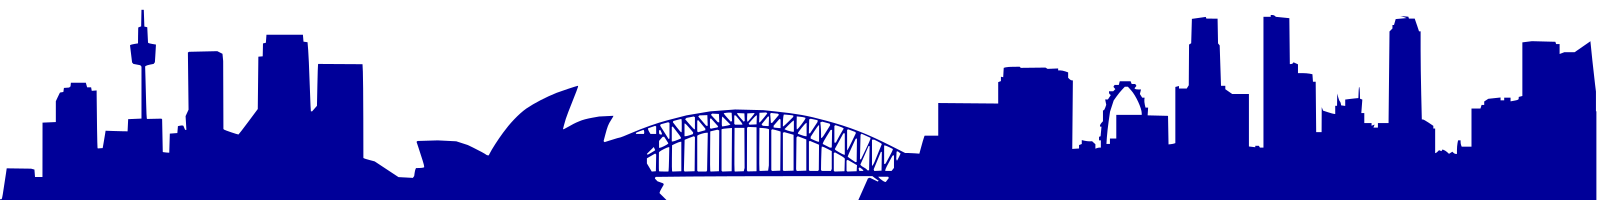
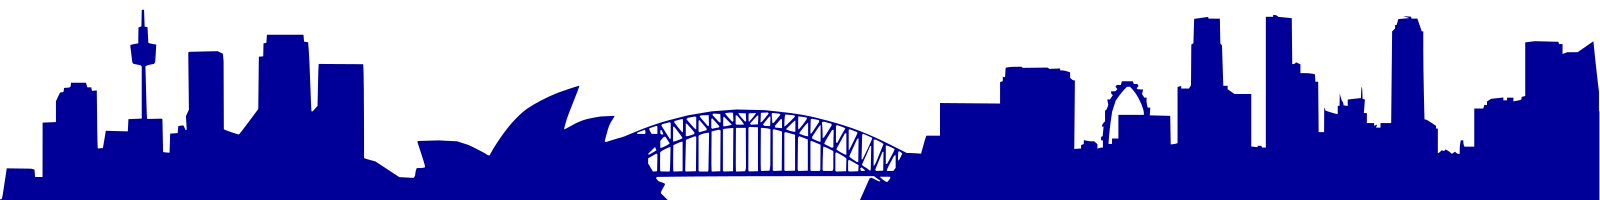
new old layout with skyline

Changed region(s): [[0.3989, 0.57, 0.583, 0.87], [0.8284, 0.48, 0.8591, 0.54]]

diff --git a/static/soft.css b/static/soft.css
@@ -23,17 +23,20 @@ hgroup, main, menu, nav, section { display:block }
 
 /* Palette ****************************************************/
 html,a,#sidebar a:hover {
-  background-color:#f1f1f1;
+  background-color:#f1f0f0;
   color:#4c4c4c;
 }
 #skyline {
-  background:#ffffff url("skyline-soft.png") top center no-repeat;
+  background:#ffffff url("skyline-soft.png") bottom center no-repeat;
   border-bottom:6px solid #000099; 
   height:100px;
 }
 h1 a, #sidebar a, a:hover { color: #000099 }
-blockquote { border-left:4px solid #e5e5e5 }
-pre { background:#e5e5e5 }
+blockquote,pre,input[type=text] { 
+    background:#ffffff;
+    border-left:4px solid #e5e5e5;
+}
+blockquote { background:transparent }
 table tr { border-bottom:1px solid #d4d4d4 }
 input {
   background:#dee3f2;
@@ -49,8 +52,8 @@ only screen and (-webkit-min-device-pixel-ratio: 2),
 only screen and (min-device-pixel-ratio: 2) {
 
     #skyline {
-        background:#0099ff url("skyline-soft-2x.png") top center no-repeat;
-        background-size:821px 100px;
+        background:#ffffff url("skyline-soft-2x.png") top center no-repeat;
+        background-size:799px 100px;
     }
 
 }
@@ -76,7 +79,6 @@ small {
   white-space:nowrap;
 }
 h1 a, h2 a { text-decoration: none }
-
 img { display:inline; /* mozilla: fix default behaviour */ }
 ul { list-style-type:circle; }
 
@@ -103,7 +105,6 @@ legend, #skip, #skip:hover, #skip:visited, #search input[type="submit"] {
   overflow:hidden;
   position:absolute;
   top:-1000px;
-  width:1px;
 }
 hr {
   display:none;       /* show lines in terminal browsers, but */
@@ -208,8 +209,7 @@ footer {
 
 /* Footer: Search *********************************************/
 input[type=text] {
-  border-radius:4px;
-  border:1px solid #000066;
+  background:#ffffff;
   padding:4px;
   width:260px;
 }
@@ -226,21 +226,35 @@ input[type=text] {
     padding-bottom:40px;
   }
   #sidebar li { display:inline }
-  #sidebar li a { margin-right:10px; }
-  #categories, #years, #mascot { 
+  #sidebar li a { margin-right:10px }
+  #sidebar nav #topics {
+    display:inline;
+    visibility:visible;
+  }
+  #categories, #years, #mascot, #sidebar #category-nav,
+  #latest-show, #site-description { 
     display:none;
     visibility:hidden;
   }
   header, #sidebar, main, .secondary, footer {
-      margin:0;
+      margin-left:0;
+      margin-right:0;
       width:auto;
   }
-  header h1 { width:140px }
+  header h1 {
+    margin-bottom:10px;
+    width:140px
+  }
 }
 
 /* Smallest screens ******************************************/
 @media screen and (max-width: 660px) {
   html { border:0 }
+  #skyline {
+     background:#ffffff url("skyline-soft.png") bottom center no-repeat;
+     background-size:399px 50px;
+     height:50px;
+  }
   #sandwich-wrapper {
     margin:0;
     min-width:320px;
@@ -249,14 +263,6 @@ input[type=text] {
   #sidebar, article, .secondary, footer h1, footer p, footer form {
     margin-left:15px;
     margin-right:15px;
-  }
-  #sidebar #category-nav {
-    display:none;
-    visibility:hidden;
-  }
-  #sidebar nav #topics {
-    display:inline;
-    visibility:visible;
   }
   article img, article iframe, article object { 
     height:auto !important;
